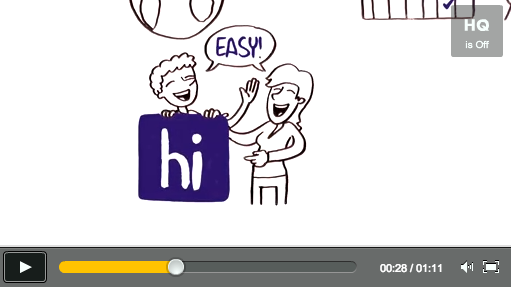
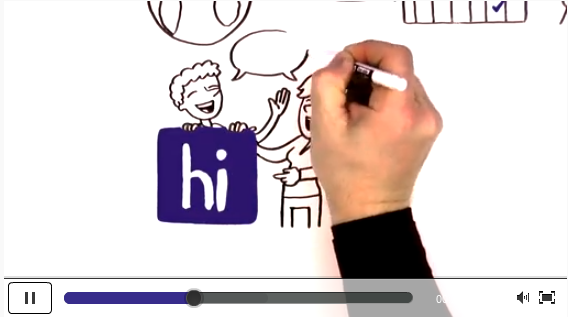
added video and fixed calendar

diff --git a/app/assets/stylesheets/screen.css.scss b/app/assets/stylesheets/screen.css.scss
@@ -146,6 +146,14 @@ ul, li {
   float:left;
 }
 
+.half-width {
+  width:49%;
+}
+
+.text-center {
+  text-align: center;
+}
+
 .masonry,
 .masonry .masonry-brick {
   -webkit-transition-duration: 0.7s;
@@ -647,7 +655,8 @@ overflow: hidden;
 -webkit-box-shadow: 0px 0px 9px rgba(50, 50, 50, 0.3);
 -moz-box-shadow: 0px 0px 9px rgba(50, 50, 50, 0.3);
 box-shadow: inset 0px 0px 9px rgba(50, 50, 50, 0.3);
-height: 334px;
+/*height: 334px;*/
+height: 380px;
 margin-bottom: -90px;
   nav {
 background-color: #fffefd;
@@ -1437,13 +1446,13 @@ top: 8px;
 right: 5px;
   }
   .promo_img {
-    overflow: hidden;
-    height: 90px;
+    float: left;
+    width: 22%;
+    padding-top: 8px;
     img {
-      width:100%;
-      position: relative;
-      bottom: 65px;
-  }
+      max-width: 100%;
+      max-height: 76px;
+    }
   .icon-ok-sign {
     position: absolute;
 right: 12px;
@@ -1458,9 +1467,10 @@ background-color: white;
 padding: 0px 2px 1px 5px;
 font-size: 19px;
 height: auto;
-float: left;
-width: 63%;
-    img {
+float: right;
+width: 58%;
+margin-right: 17%;
+   img {
       width: 7%;
       margin-bottom: -5px;
       position: relative;
@@ -1486,6 +1496,8 @@ padding-top: 5px;
 bottom: 0;
 margin-bottom: 0;
 padding-bottom: 0;
+float: right;
+width: 73%;
   .profile_picture {
     width:30px;
     height:30px;
@@ -1535,6 +1547,9 @@ border: 1px solid $divider;
   padding-bottom: 13px;
   img{
     max-height: 267px;
+/*    -webkit-box-shadow: 0 0 6px rgba(0,0,0,0.3);
+    -moz-box-shadow: 0 0 6px rgba(0,0,0,0.3);
+    box-shadow: 0 0 6px rgba(0,0,0,0.3); check old code*/
   }
 }
 .profile_picture {
@@ -3123,12 +3138,12 @@ margin: 0 auto;
   .message {
 position: relative;
 margin: 0 auto;
-background-color: rgba(250, 250, 250, 0.9);
+background-color: rgba(250, 250, 250, 0.85);
 padding: 20px 4%;
 height: auto;
 border-radius: 7px;
+max-width: 800px;
   .text_buttons {
-float: right;
 line-height: 1.3;
   }
     p {
@@ -3537,9 +3552,6 @@ top: 6px;
 color: white;
 background: url("low_contrast_linen.png");
 position: relative;
-right: 8px;
-padding: 6px 11px;
-width: 206px;
 border-top: 1px solid $divider;
 clear: both;
 top: 1px;
@@ -3989,7 +4001,7 @@ padding: 10px;
 box-sizing: border-box;
 top: 9px;
 position: relative;
-right: 8px;
+right: -4px;
   img {
     width:37px;
     height:37px;
@@ -4328,4 +4340,23 @@ border-radius: 0 0 5px 5px;
 position: relative;
 top: 0px;
 margin: 0 2%;
+}
+
+.fancybox-iframe {
+  height: 98%;
+  width: 99%;
+  position: relative;
+  left: 4px;
+}
+
+.hi_video {
+  img {
+    width:100%;
+  }
+}
+
+.not_signed_in_logo {
+  img {
+    width:80%;
+  }
 }

diff --git a/app/assets/stylesheets/desktop.css.scss b/app/assets/stylesheets/desktop.css.scss
@@ -30,7 +30,6 @@
 		width: 80%;
 		.text_buttons {
 			font-size: 26px;
-			margin-right: 7%;
 		}
 	}
 
@@ -139,9 +138,10 @@ top: 13px;
 	}
 
 	.event_show {
-position: absolute;
-width: 65%;
-right:5px;
+width: 59%;
+max-width: 690px;
+margin-right: 3.5%;
+float: right;
 		.promo_img {
 			img {
 				max-width: 100%;
@@ -399,7 +399,7 @@ margin-left: -246px;
 	}
 
 	.email_share {
-		width: 33%;
+	width: 32%;
 	}
 
 		.social_sharing {
@@ -445,6 +445,20 @@ margin-right: 85px;
 		left: 236px;
 	}
 
+		.shield_bottom {
+		right: 8px;
+padding: 6px 11px;
+width: 206px;
+	}
+
+	.idea_container {
+		width:100%;
+	}
+
+	.user_show {
+		width:70%;
+	}
+
 }
 
 /***************************************/
@@ -471,14 +485,9 @@ margin-right: 85px;
 		width: 230px;
 	}
 	.container_wrapper {
-		width:45%;
+		width:42.5%;
 	}
-	.idea_container {
-		width: 96%;
-	}
-	.user_show {
-  width:70%;
-}
+
 }
 @media only screen and (max-width: 829px) {
 	.hide_on_mobile {
@@ -493,13 +502,7 @@ margin-right: 85px;
 		width: 500px;
 	}
 		.container_wrapper {
-		width:60%;
-	}
-		.idea_container {
-		width:79%;
-	}
-	.user_show {
-		width: 70%;
+		width:61%;
 	}
 }
 
@@ -509,10 +512,7 @@ margin-right: 85px;
 		width: 770px;
 	}
 	.container_wrapper {
-		width:67%;
-	}
-	.idea_container {
-		width:87%;
+		width:70%;
 	}
 	.user_show {
 		width: 72%;
@@ -524,12 +524,8 @@ margin-right: 85px;
 		width: 1030px;
 	}
 	.container_wrapper {
-		width:72%;
+		width:75%;
 	}
-	.idea_container {
-		width:86%;
-	}
-
 	.user_show {
 		width: 78%;
 	}
@@ -540,12 +536,9 @@ margin-right: 85px;
 		width: 1230px;
 	}
 	.container_wrapper {
-		width:76%;
-	}
-	.idea_container {
-		width:92%;
+		width:79%;
 	}
 	.user_show {
-		width: 80%;
+		width: 81%;
 	}
 }

diff --git a/app/assets/stylesheets/responsive.css.scss b/app/assets/stylesheets/responsive.css.scss
@@ -401,5 +401,15 @@ width: 98%;
 		display: none;
 	}
 
+	.shield_bottom {
+		right: 0px;
+		padding: 3px 4px;
+		width: 130px;
+	}
+
+	.container_wrapper {
+		width: 100%;
+	}
+
 }
 

diff --git a/app/assets/stylesheets/application.css b/app/assets/stylesheets/application.css
@@ -13,5 +13,6 @@
  *= require jquery.ui.tabs
  *= require jquery.ui.datepicker
  *= require jquery.ui.slider
+ *= require fancybox
  *= require_tree .
  */

diff --git a/app/assets/javascripts/application.js b/app/assets/javascripts/application.js
@@ -14,4 +14,5 @@
 //= require jquery_ujs
 //= require highcharts
 //= require jquery-ui
+//= require fancybox
 //= require_tree
